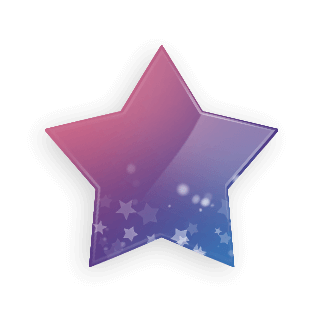
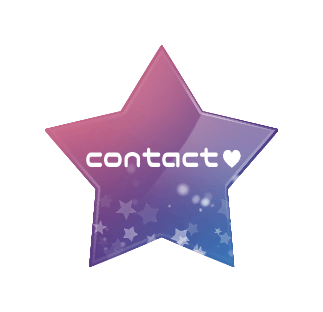
Add files via upload

diff --git a/index.html b/index.html
@@ -15,18 +15,19 @@
 </script>
 <title>うおたにリオスタ本部</title>
 <meta name="description" content="リオスタ大好き♡ アップルグミ感謝祭2様にて、リオスタ合同誌(成人向け)を出します！" />
-<link rel="canonical" href="https://uotanils.wp.xdomain.jp/" />
+<link rel="canonical" href="https://uotanils.github.io/" />
+<meta name="thumbnail" content="(画像URL)" />
 <meta property="og:locale" content="ja_JP" />
 <meta property="og:type" content="website" />
 <meta property="og:title" content="うおたにリオスタ本部" />
 <meta property="og:description" content="リオスタ大好き♡ アップルグミ感謝祭2様にて、リオスタ合同誌(成人向け)を出します！" />
-<meta property="og:url" content="https://uotanils.wp.xdomain.jp/" />
+<meta property="og:url" content="https://uotanils.github.io/" />
 <meta property="og:site_name" content="うおたにリオスタ本部" />
 <meta property="og:image" content="https://uotanils.github.io/img/ogp.png" />
 <meta property="article:modified_time" content="2022-03-29T09:23:46+00:00" />
 <meta name="twitter:card" content="summary_large_image" />
 <meta name="twitter:site" content="@uotaniLS" />
-<script type="application/ld+json" class="yoast-schema-graph">{"@context":"https://schema.org","@graph":[{"@type":"WebSite","@id":"http://uotanils.wp.xdomain.jp/#website","url":"http://uotanils.wp.xdomain.jp/","name":"うおたにリオスタ本部","description":"Just another WordPress site","potentialAction":[{"@type":"SearchAction","target":{"@type":"EntryPoint","urlTemplate":"http://uotanils.wp.xdomain.jp/?s={search_term_string}"},"query-input":"required name=search_term_string"}],"inLanguage":"ja"},{"@type":"WebPage","@id":"https://uotanils.wp.xdomain.jp/#webpage","url":"https://uotanils.wp.xdomain.jp/","name":"うおたにリオスタ本部","isPartOf":{"@id":"http://uotanils.wp.xdomain.jp/#website"},"datePublished":"2022-03-29T08:35:46+00:00","dateModified":"2022-03-29T09:23:46+00:00","description":"リオスタ大好き♡ アップルグミ感謝祭2様にて、リオスタ合同誌(成人向け)を出します！","breadcrumb":{"@id":"https://uotanils.wp.xdomain.jp/#breadcrumb"},"inLanguage":"ja","potentialAction":[{"@type":"ReadAction","target":["https://uotanils.wp.xdomain.jp/"]}]},{"@type":"BreadcrumbList","@id":"https://uotanils.wp.xdomain.jp/#breadcrumb","itemListElement":[{"@type":"ListItem","position":1,"name":"ホーム"}]}]}</script>
+<script type="application/ld+json" class="yoast-schema-graph">{"@context":"https://schema.org","@graph":[{"@type":"WebSite","@id":"http://uotanils.wp.xdomain.jp/#website","url":"http://uotanils.wp.xdomain.jp/","name":"うおたにリオスタ本部","description":"Just another WordPress site","potentialAction":[{"@type":"SearchAction","target":{"@type":"EntryPoint","urlTemplate":"http://uotanils.wp.xdomain.jp/?s={search_term_string}"},"query-input":"required name=search_term_string"}],"inLanguage":"ja"},{"@type":"WebPage","@id":"https://uotanils.github.io/#webpage","url":"https://uotanils.github.io/","name":"うおたにリオスタ本部","isPartOf":{"@id":"http://uotanils.wp.xdomain.jp/#website"},"datePublished":"2022-03-29T08:35:46+00:00","dateModified":"2022-03-29T09:23:46+00:00","description":"リオスタ大好き♡ アップルグミ感謝祭2様にて、リオスタ合同誌(成人向け)を出します！","breadcrumb":{"@id":"https://uotanils.github.io/#breadcrumb"},"inLanguage":"ja","potentialAction":[{"@type":"ReadAction","target":["https://uotanils.github.io/"]}]},{"@type":"BreadcrumbList","@id":"https://uotanils.github.io/#breadcrumb","itemListElement":[{"@type":"ListItem","position":1,"name":"ホーム"}]}]}</script>
 <link rel="apple-touch-icon" sizes="180x180" href="/img/ico/apple-touch-icon.png">
 <link rel="icon" type="image/png" sizes="32x32" href="/img/ico/favicon-32x32.png">
 <link rel="icon" type="image/png" sizes="16x16" href="/img/ico/favicon-16x16.png">
@@ -120,7 +121,7 @@ $(function(){
             <div class="menuBoxWrapper">
                 <div class="linkBoxWrapper">
                     <div class="linkBox2">
-                        <a href="https://marshmallow-qa.com/uotanils" target="_blank" class="btnStar"><span>contact</span><span class="txts">&#9829;</span></a>
+                        <a href="https://marshmallow-qa.com/uotanils" target="_blank" class="btnStar"><!--<span>contact</span><span class="txts">&#9829;</span>--></a>
                     </div>
                 </div>
                 <!-- .linkBox -->
